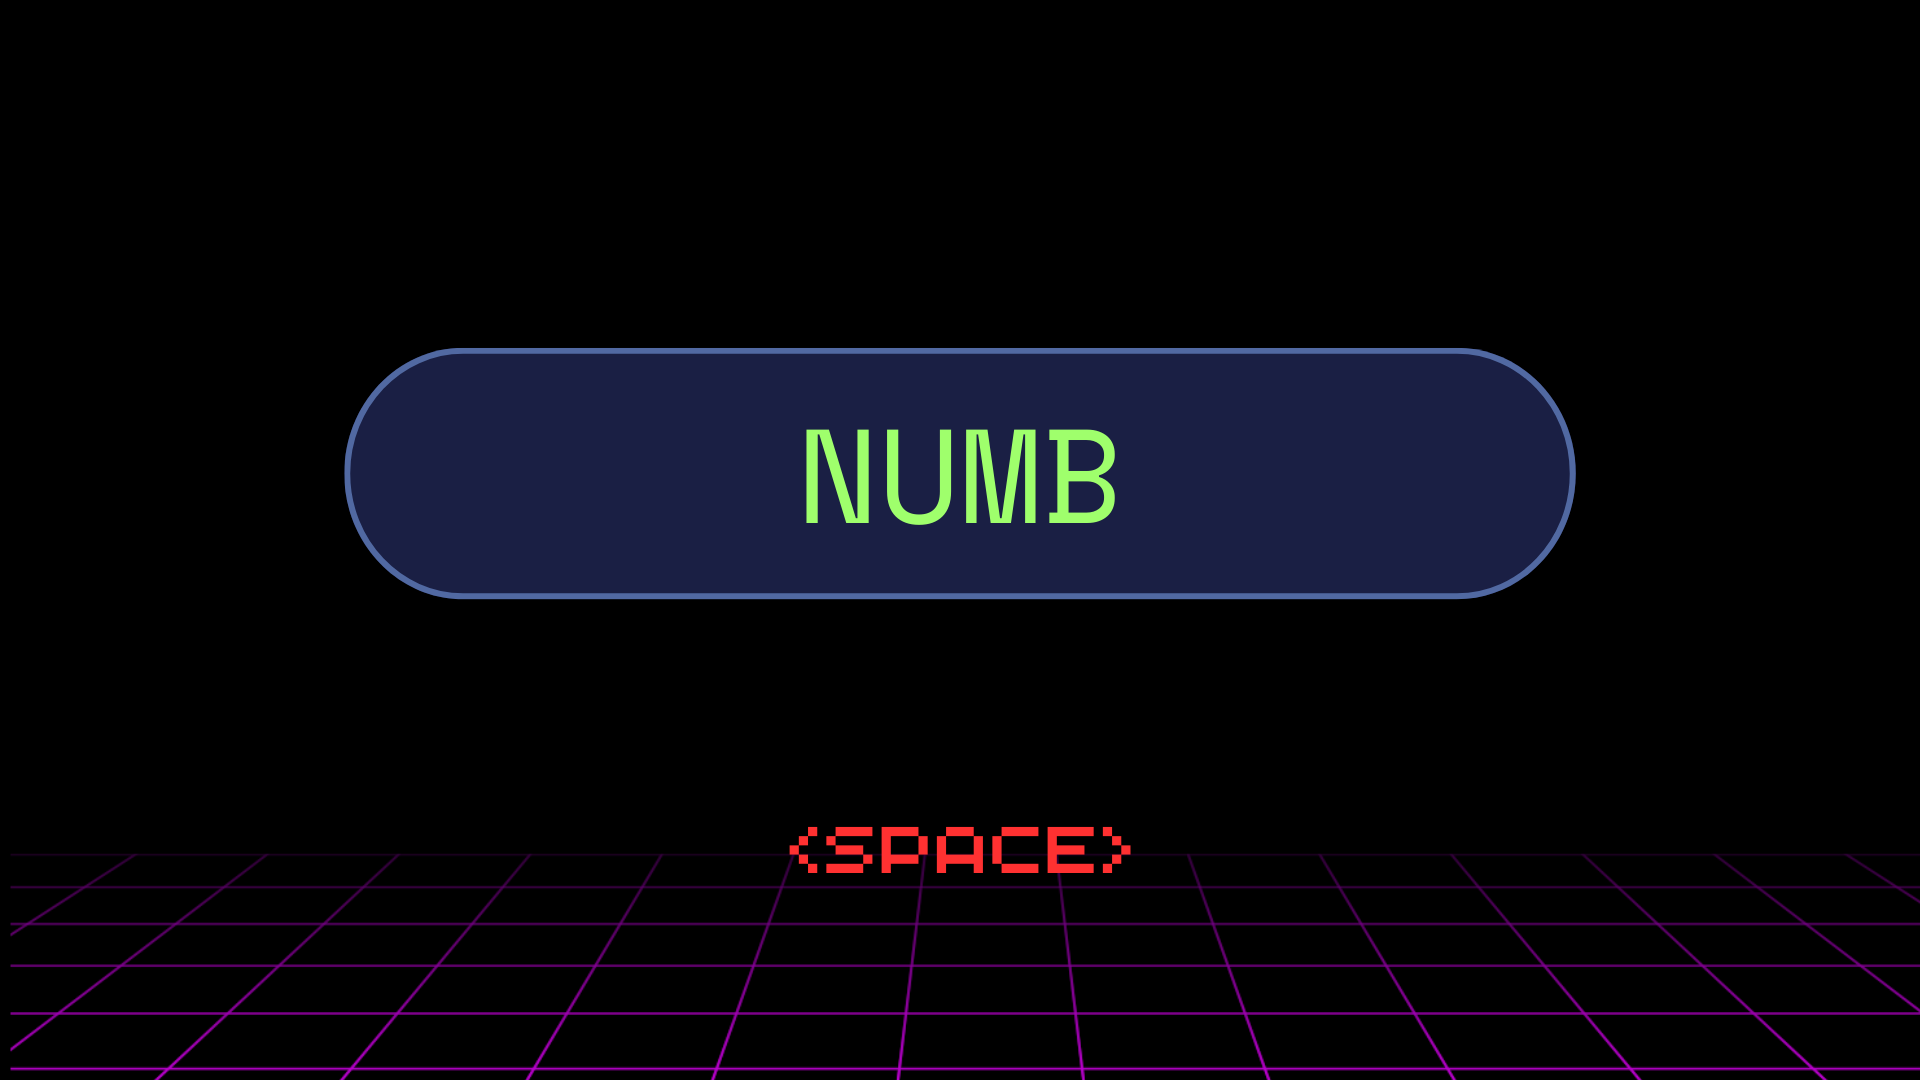
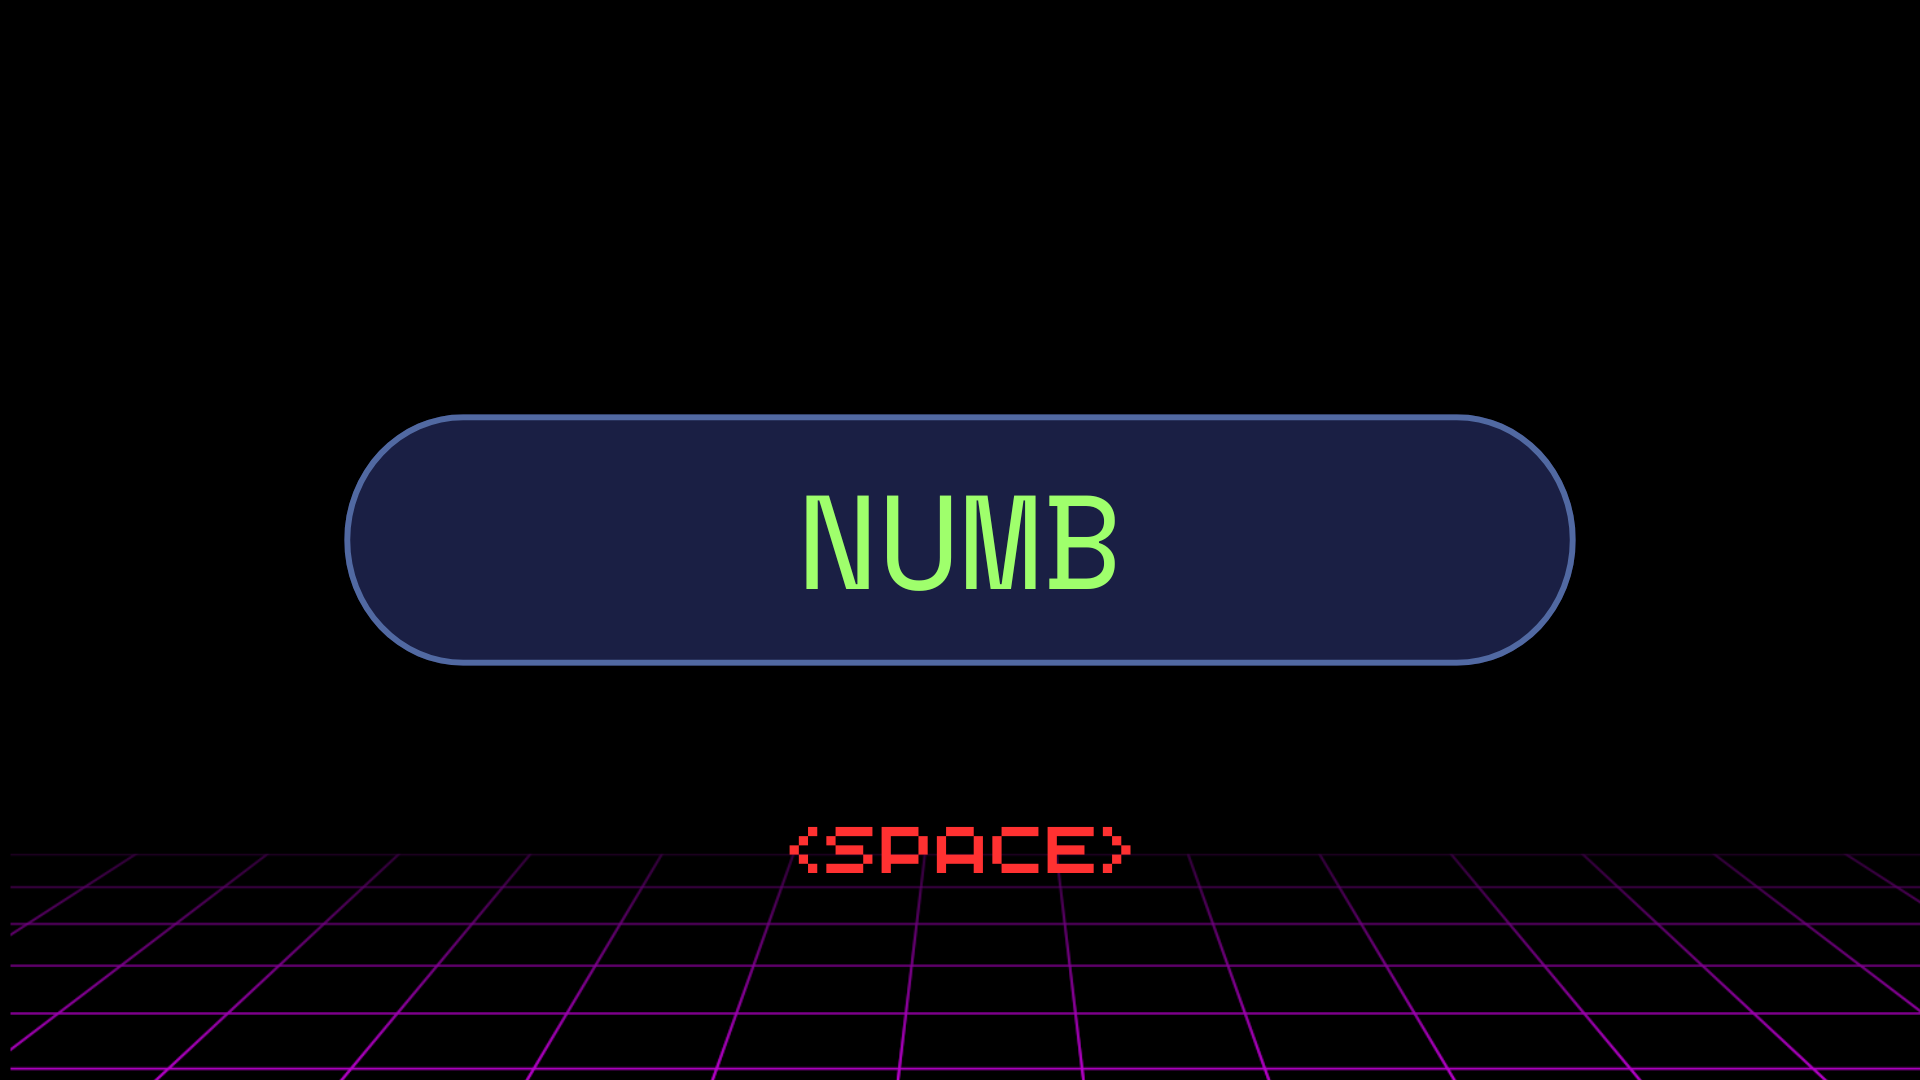
menu and home pages

Changed region(s): [[0.1562, 0.3056, 0.8438, 0.6417]]

diff --git a/src/game.cpp b/src/game.cpp
@@ -2,11 +2,13 @@
 
 Game::Game()
 {
-    currLevel = 0;
+    currLevel = -1;
 }
 
 Game::~Game()
 {
+    menu = nullptr;
+    home = nullptr;
     lvl1 = nullptr;
     lvl2 = nullptr;
 }
@@ -33,9 +35,10 @@ void Game::startscreen()
         EndDrawing();
     }
     startsc.unload();
+    menu = new Menu();
+    home = new Home();
     lvl1 = new Level1();
     lvl2 = new Level2();
-    currLevel = 1;
 }
 
 void Game::begin()
@@ -46,9 +49,37 @@ void Game::begin()
 
 void Game::update(float dt)
 {
-
     switch (currLevel)
     {
+    case -1:
+        menu->render();
+        menu->update(dt);
+
+        if (IsKeyPressed(KEY_P))
+        {
+            currLevel = 0;
+        }
+        else if (IsKeyPressed(KEY_T))
+        {
+            // turtorial
+        }
+        else if (IsKeyPressed(KEY_E))
+        {
+            // exit
+        }
+        else if (IsKeyPressed(KEY_M))
+        {
+            // mute
+        }
+        break;
+    case 0:
+        home->render();
+        home->update(dt);
+        if (IsKeyPressed(KEY_P))
+            currLevel = -1;
+
+        break;
+
     case 1:
         if (instruction)
         {
@@ -62,7 +93,8 @@ void Game::update(float dt)
         lvl1->update(dt);
         if (lvl1->complete())
         {
-            currLevel++;
+            home->currmap++;
+            currLevel = 0;
             instruction = false;
         }
 
@@ -71,7 +103,11 @@ void Game::update(float dt)
         lvl2->render();
         lvl2->update(dt);
         if (lvl2->complete())
-            currLevel++;
+        {
+            home->currmap++;
+            currLevel = 0;
+            instruction = false;
+        }
 
         break;
     default:

diff --git a/src/home.cpp b/src/home.cpp
@@ -1,0 +1,44 @@
+#include "../include/home.hpp"
+
+Home::Home()
+{
+    loadplayer();
+    loadmaps();
+}
+
+Home::~Home()
+{
+    player = nullptr;
+    map = nullptr;
+    unloadmaps();
+}
+
+void Home::loadmaps()
+{
+    doors[0].load("assets/maps/mdr/map01.png");
+    doors[1].load("assets/maps/mdr/map03.png");
+    doors[2].load("assets/maps/mdr/map03.png");
+    doors[3].load("assets/maps/mdr/map04.png");
+}
+
+void Home::unloadmaps()
+{
+    for(auto d : doors)
+    {
+        d.unload();
+    }
+}
+
+void Home::updatechar(float dt)
+{
+}
+
+void Home::render()
+{
+    DrawTexture(doors[currmap].getTexture(), 0, 0, WHITE);
+}
+
+void Home::update(float dt)
+{
+
+}

diff --git a/include/home.hpp b/include/home.hpp
@@ -1,0 +1,22 @@
+#include "level.hpp"
+
+class Home : public Level
+{
+    Textures doors[4];
+
+    void loadmaps();
+    void unloadmaps();
+
+protected:
+
+    // virtual void addcolliders() override;
+    virtual void updatechar(float dt) override;
+
+public:
+    Home();
+    ~Home();
+    int currmap = 0;
+
+    virtual void render() override;
+    virtual void update(float dt) override;
+};

diff --git a/src/menu.cpp b/src/menu.cpp
@@ -1,0 +1,19 @@
+#include "../include/menu.hpp"
+
+Menu::Menu()
+{
+    tex.load("assets/pages/menu.png");
+}
+
+Menu::~Menu()
+{
+    player = nullptr;
+    map = nullptr;
+    tex.unload();
+}
+
+void Menu::render()
+{
+    DrawTexture(tex.getTexture(), 0, 0, WHITE);
+}
+

diff --git a/include/game.hpp b/include/game.hpp
@@ -3,9 +3,13 @@
 #include <raylib.h>
 #include "lvl1.hpp"
 #include "lvl2.hpp"
+#include "home.hpp"
+#include "menu.hpp"
 
 class Game
 {
+    Menu *menu;
+    Home *home;
     Level1 *lvl1;
     Level2 *lvl2;
     int currLevel;

diff --git a/include/level.hpp b/include/level.hpp
@@ -15,7 +15,7 @@ protected:
     std::pair<int, int> cameramovement;
     float camx{}, camy{};
 
-    void loadplayer();
+    virtual void loadplayer();
     virtual void loadmap();
 
     bool finish;

diff --git a/include/menu.hpp b/include/menu.hpp
@@ -1,0 +1,13 @@
+#include "level.hpp"
+
+class Menu : public Level
+{
+    Textures tex;
+
+protected:
+public:
+    Menu();
+    ~Menu();
+
+    virtual void render() override;
+};
